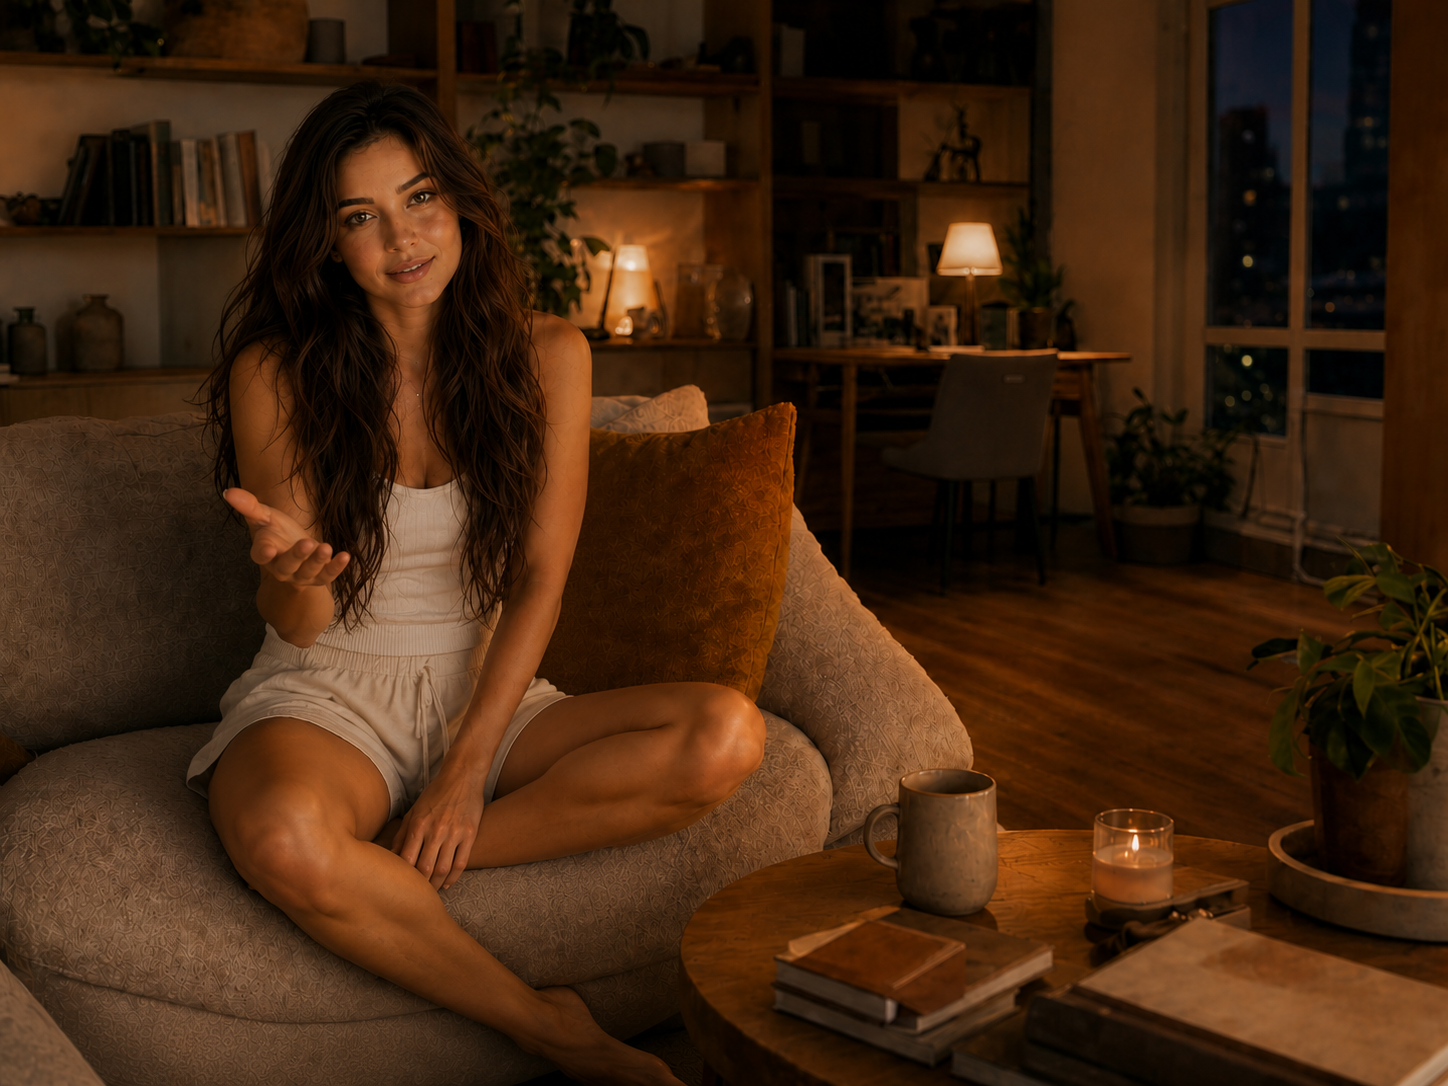
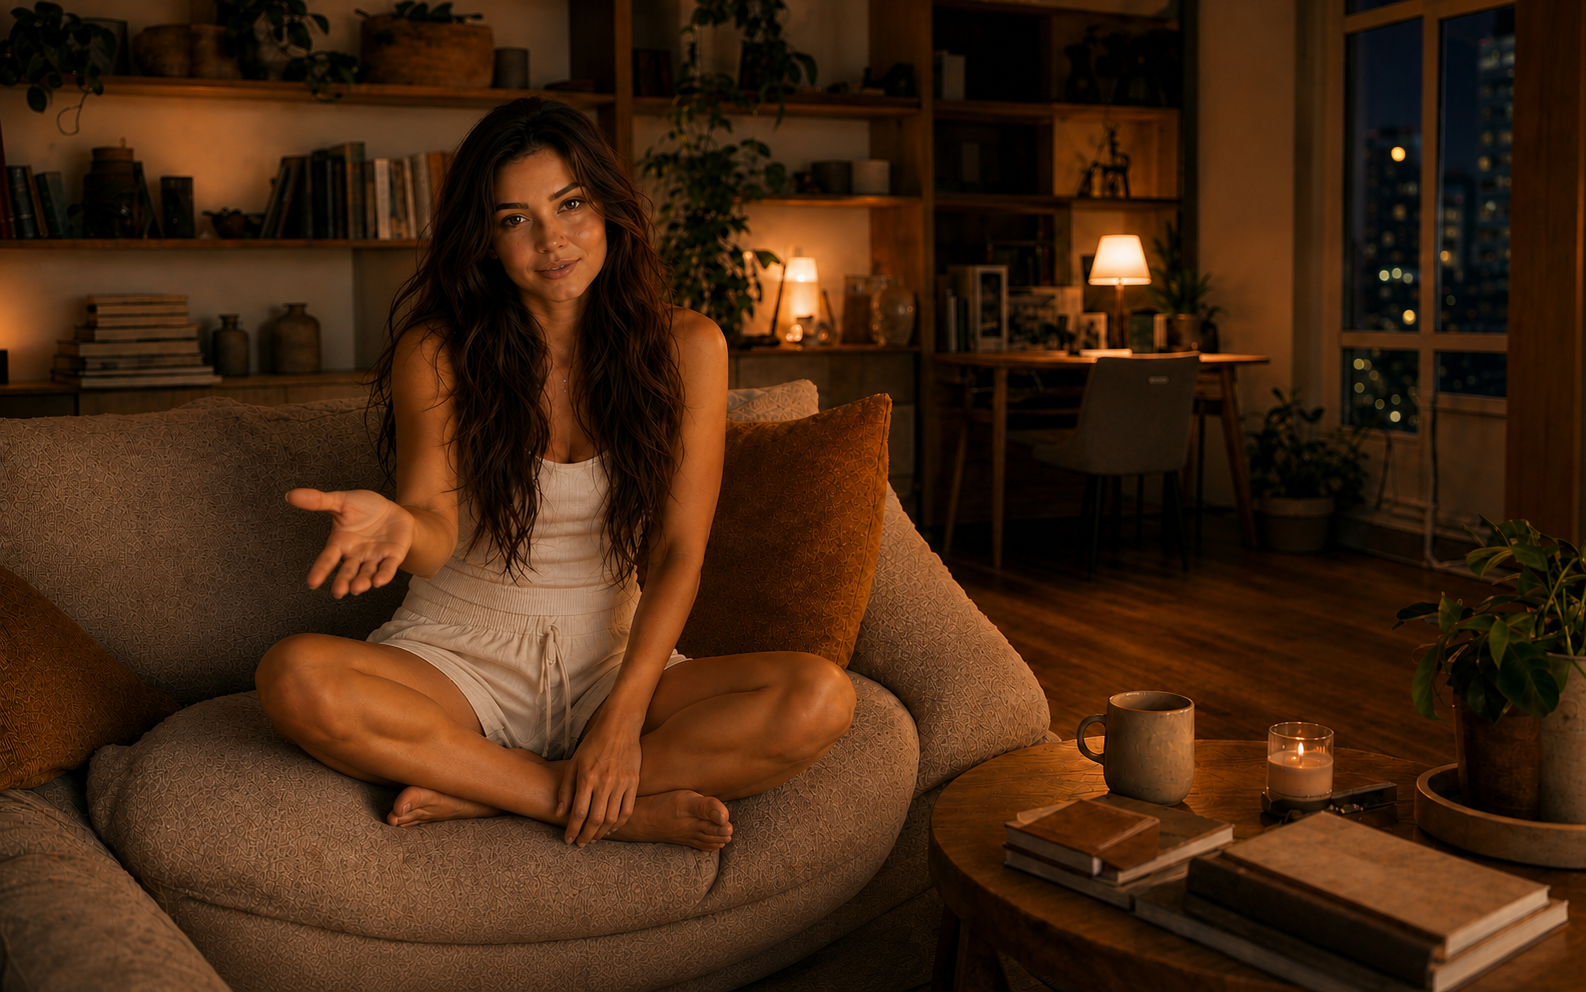
Заканчиваем с техничкой

diff --git a/backend/application/home_snapshot.py b/backend/application/home_snapshot.py
@@ -95,7 +95,7 @@ class HomeSnapshotService:
         return HomeSnapshotView(
             observed_at=presentation.observed_at,
             home_timezone=str(presentation.observed_at.tzinfo),
-            status=self._status,
+            status=status,
             active_model=active_model,
             visual_assets=visual_assets,
             presentation=presentation,
@@ -128,6 +128,7 @@ class HomePresentationSession:
         self._status = snapshot.status
         self._active_model = snapshot.active_model
         self._visual_assets = snapshot.visual_assets
+        self._home_timezone = snapshot.home_timezone
         self._composition = composition
         self._clock = clock or (lambda: datetime.now(timezone.utc))
         self._runtime = PresentationRuntime(snapshot.presentation)
@@ -448,6 +449,7 @@ class HomePresentationSession:
 
         return HomeSnapshotView(
             observed_at=observed_at,
+            home_timezone=self._home_timezone,
             status=self._status,
             active_model=self._active_model,
             visual_assets=self._visual_assets,
@@ -465,6 +467,7 @@ class HomePresentationSession:
         presentation = self._runtime.dispatch(event)
         return HomeSnapshotView(
             observed_at=presentation.observed_at,
+            home_timezone=self._home_timezone,
             status=self._status,
             active_model=self._active_model,
             visual_assets=self._visual_assets,
